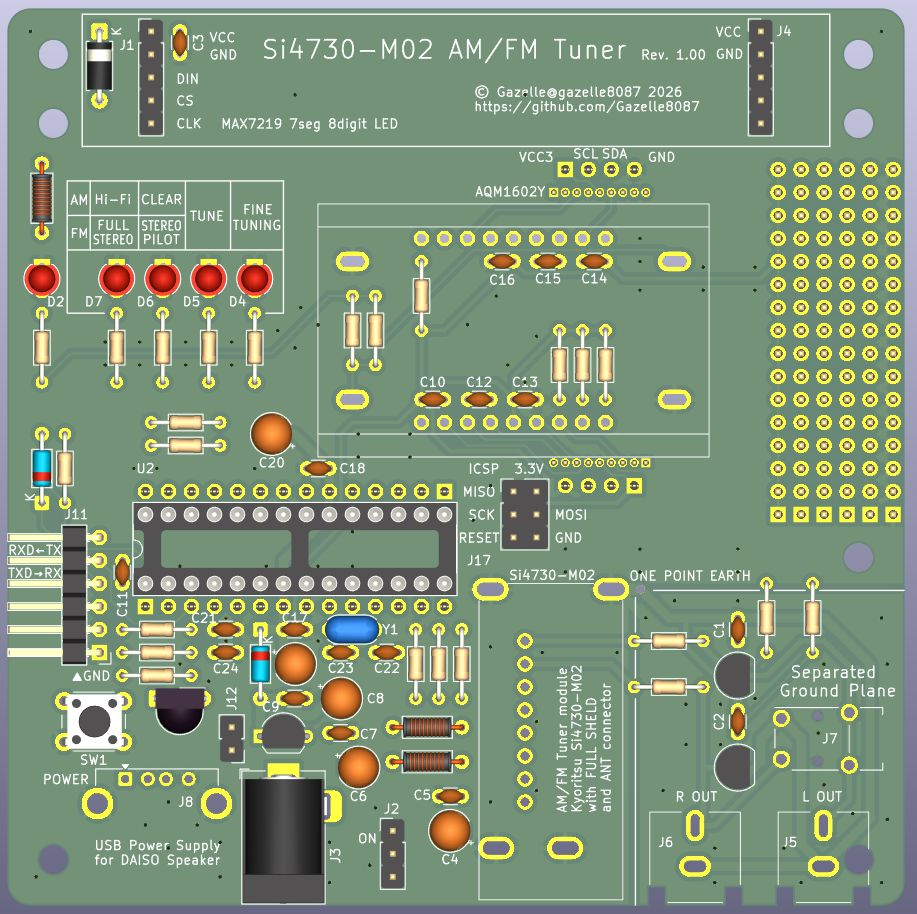
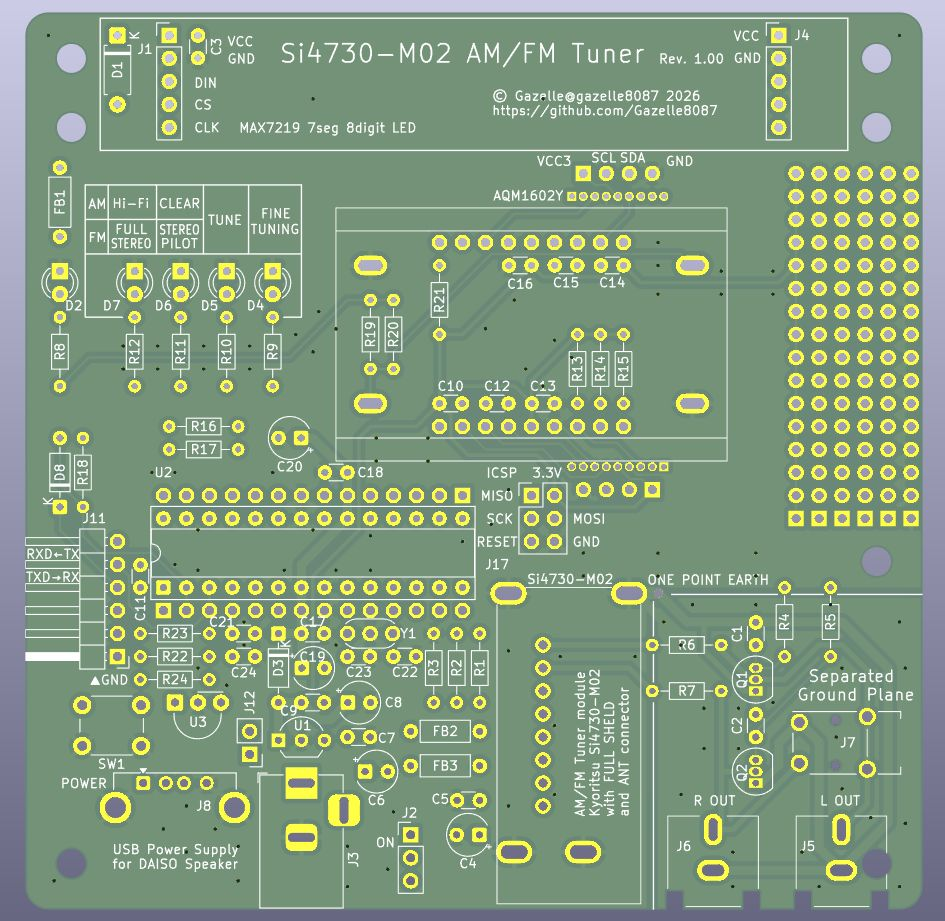
Add files via upload

diff --git a/README.md b/README.md
@@ -2,15 +2,22 @@
 
 共立エレショップで限定特価にて販売されている  
 Si4730-D60 搭載のチューナーモジュールを  
-マイコンを使って動作させてみました。  
+マイコンを使って動作させてみました  
 
 同じチューナーチップを使っていると推定される  
-私自身所有のONKYOのレシーバー TX-8050をベンチマークとし、  
-同等の感度・音質目指し、UIを自分の好みに仕上げ、  
-普段使いできるチューナーに仕立てました。  
+私自身所有のONKYOのレシーバー TX-8050をベンチマークとし  
+同等の感度・音質目指し、UIを自分の好みに仕上げ  
+普段使いできるチューナーに仕立てました  
 
-共立エレショップで扱われている商品に関しては以下リンク先ご参照ください。  
+共立エレショップで扱われている商品に関しては以下リンク先ご参照ください  
 https://eleshop.jp/shop/g/gQ1D411/
+
+## 実装例
+
+![全体](https://github.com/Gazelle8087/Si4730-AM-FM-tuner/blob/main/Si4730-M02_Tuner.JPG)
+
+とりあえずの音出しに必要な部品を組付けた状態です  
+現時点で基板上のパターン修正が必要な箇所は有りません  
 
 ## ビルド環境
 
@@ -18,35 +25,43 @@ IDE: Arduino IDE 2.3.10
 ターゲットマイコン：Atmega328P  
 
 MiniCore ブートローダを使用し  
-8MHz 内蔵RC発振 BOD1.8Vに設定ください。  
-シリアルコンソールは 9600bpsを使っています。  
+8MHz 内蔵RC発振 BOD1.8Vに設定ください  
+シリアルコンソールは 9600bpsを使っています  
 
 ## スケッチについて
 
-リポジトリ内 SI4730_IR.ino をご参照ください。  
-シングルソースです。  
+リポジトリ内 SI4730_IR.ino をご参照ください  
+シングルソースです  
 
 ## プリント基板
-リポジトリにJLCPCBに発注した設計データ Si4730_tuner_proto2_20260628.zip を置く予定です。  
-（本基板に部品実装し正常動作確認できた時点で公開します。）  
+
+Si4730_tuner_proto2_20260628.zip をリポジトリに置きます  
+JLCPCBに発注した設計データですが、Rev1.00では以下不具合があります  
+
+- 位置決めピン穴開け忘れのため、超小型バックライト付LCDが搭載できません  
+- チューナーモジュールのシールド足のピッチとランドがわずかにずれています  
+  手で軽く圧入すれば組付けはできます  
+- インダクタの10μH品の体格が大きいため、ランドのピッチと合いません  
+  47μH品は合ってます  
+- 未使用部品C21のランドが残っています  
 
 ![表](https://github.com/Gazelle8087/Si4730-AM-FM-tuner/blob/main/Si4730-M02_Tuner_PCB.JPG)
 
 ## 回路の説明
 
-リポジトリ内 Si4730-M02_Tuner_sch.pdf ご参照ください。  
-モジュールの基板を解析した結果は Si4730-M02_sch.pdf をご参照ください。  
+リポジトリ内 Si4730-M02_Tuner_sch.pdf ご参照ください  
+モジュールの基板を解析した結果は Si4730-M02_sch.pdf をご参照ください  
 
 チューナーモジュールを制御するマイコン  
 赤外線リモコン受信、I2C接続16桁×2行の液晶表示  
 POWER UP時のポップノイズ抑制のためのミュート回路  
 電源断を検出してチューナーの動作状態を保存するための回路  
-等を構成しました。  
+等を構成しました  
 
 ## 主な仕様
 
 受信範囲  
-AM 522kHz  ～ 1602kHz  
+AM 522kHz  ～ 1710kHz  
 FM 76.0MHz ～ 95.0MHz  
 
 プリセットチャンネル数 144（12バンク×12ch)  
@@ -68,80 +83,86 @@ RCAジャックと3.5mmジャックは並列接続
 （3.5mmジャックに刺してもRCA出力はOFFになりません）  
 
 USBから電源を取るパワードスピーカーへの給電のための  
-USB-Aコネクタ装備済  
+USB-Aコネクタ搭載可能  
 
 ## TX-8050との比較
 
-以下あくまで主観評価です。  
+以下あくまで主観評価です  
 
 【受信感度】  
-AM・FM共に感度に関しては同等です。  
+AM・FM共に感度に関しては同等です  
 
 【音質】  
-アンプはTX-8050を使い、内蔵チューナーと本機を切替ながら比較しました。  
+アンプはTX-8050を使い、内蔵チューナーと本機を切替ながら比較しました  
 
-FMに関しては同等でした。  
+FMに関しては同等でした  
 
 AMに関しては、近隣の局の場合チャンネルフィルタを6kHzに設定すれば  
-本機の方がより高音が伸び、クリア聞こえます。  
+本機の方がより高音が伸び、クリア聞こえます  
 聞き比べてみますと、TX-8050はチャンネルフィルタを  
-4kHzに固定しているようで、本機で4kHz設定した場合と同程度でした。  
+4kHzに固定しているようで、本機で4kHz設定した場合と同程度でした  
 
 【選択度】  
-チューナーチップの性能は同じですが、  
+チューナーチップの性能は同じですが  
 チャンネルフィルタ切替と周波数微調整機能にて  
-TX-8050では聞き取れない局が聞こえる場面もありました。  
+TX-8050では聞き取れない局が聞こえる場面もありました  
 
 【リモコン操作性】  
 
-TX-8050はプリセットメモリ1～40chで、ダイレクト呼び出しの際、  
-5～9CHは一発で、それ以外は2桁指定となっています。  
+TX-8050はプリセットメモリ1～40chで、ダイレクト呼び出しの際  
+5～9CHは一発で、それ以外は2桁指定となっています  
 
-本機ではバンク方式とし、バンク内12chは1ボタン選局できるようにしました。  
+本機ではバンク方式とし、バンク内12chは1ボタン選局できるようにしました  
 バンク違いの局をコールするには  
 [メニュー] [バンク番号] [ch番号]と3アクション必要ですが  
-十字キーの左右でプリセット±する場合は、  
-バンクを跨いでchを切り替えます。  
+十字キーの左右でプリセット±する場合は  
+バンクを跨いでchを切り替えます  
 
 【ワイドFM対応】  
 本機ではワイドFMに対応しました。  
-（ONKYOレシーバーは後継機種TX-8150でワイドFM対応になりました。）  
+（ONKYOレシーバーは後継機種TX-8150でワイドFM対応になりました）  
 
 ## チューナーモジュール Si4730-M02 について
 
 ![写真](https://github.com/Gazelle8087/Si4730-AM-FM-tuner/blob/main/Si4730-M02_inside.JPG)
 
-この品はオーディオメーカーのAVアンプのチューナーモジュールらしく、  
-しっかりとしたシールドに納められ、FM外部アンテナ接続用のF型接栓、  
+この品はオーディオメーカーのAVアンプのチューナーモジュールらしく  
+しっかりとしたシールドに納められ、FM外部アンテナ接続用のF型接栓  
 AMループアンテナ接続用端子、Si4730音声出力をRCAレベルに増幅する  
-バッファアンプまで内蔵しています。  
+バッファアンプまで内蔵しています  
 
-一方で、Si4730制御が、非SPIの双方向3線シリアルに設定されていて、  
-有名なライブラリPU2CLRが使えません。  
-Si4730とのデータ授受をGPIOを使ったビットバングで制御する必要があります。  
+一方で、Si4730制御が、非SPIの双方向3線シリアルに設定されていて  
+有名なライブラリPU2CLRが使えません  
+Si4730とのデータ授受をGPIOを使ったビットバングで制御する必要があります  
 内部の配線を見ると、3線シリアルにするための結線がチップの下で  
-実施されているようでそこを改造するのは難しそうでした。
+実施されているようでそこを改造するのは難しそうでした
 
 また、シールドを開けて中を観察すると、AV機器らしくノイズなどに配慮した  
-回路・配置・構造になっています。  
+回路・配置・構造になっています  
 
 ## ライセンス
 
-スケッチと基板設計データはMITとします。  
+スケッチと基板設計データはMITとします  
 
 ## ⚠ 短波（SW）拡張に関して
-- 本モジュール（Si4730-M02）に搭載されているSi4730-D60は、  
+- 本モジュール（Si4730-M02）に搭載されているSi4730-D60は  
   ファームウェア（AMコンポーネント）のバリデーターが 1,710 kHz（北米拡張MW上限）  
   で厳格にハードコードされており、1711kHz以上の値を送ると即座にステータス `0xC1` (ERR=1)  
-  を返してコマンドを拒否します。  
+  を返してコマンドを拒否します  
 - ネット上で散見される `0x3102` や `0x3103` などのプロパティを用いた「SW解放の裏技」は  
-  ファームウエアの仕様変更で完全に塞がれている模様です。  
-- もし「起動時のPOWER_UPパッチ上書き」などでここを突破できた方がいらっしゃいましたら、  
-  ぜひIssueで教えてください！  
-- ただし、その場合でも本モジュールのAM入力回路はMW(中波)に最適化されているため  
-  別途その部分の改造が必要です。  
+  ファームウエアの仕様変更で完全に塞がれている模様です  
+- もし「起動時のPOWER_UPパッチ上書き」などでここを突破できた方がいらっしゃいましたら  
+  ぜひ教えてください！  
+- ただし、その場合でも本モジュールのAMアンテナ入力回路はMW(中波)に最適化されているため  
+  別途その部分の改造が必要です  
   
+## 基板頒布について  
+不具合のある基板ですが、試してみたい方はXのDMにてご連絡ください  
+ノーサポートご承知いただけるという条件で送料のみでお分けします  
+在庫4枚先着順です  
+
 ## 変更履歴
 2026 June 28 ReadMe 仮公開  
 2026 July 4  ソース公開、SW関連記述追加  
+2026 July 9  スケッチアップデート、組付け状態写真、プリント基板ガーバーデータ公開  
 
